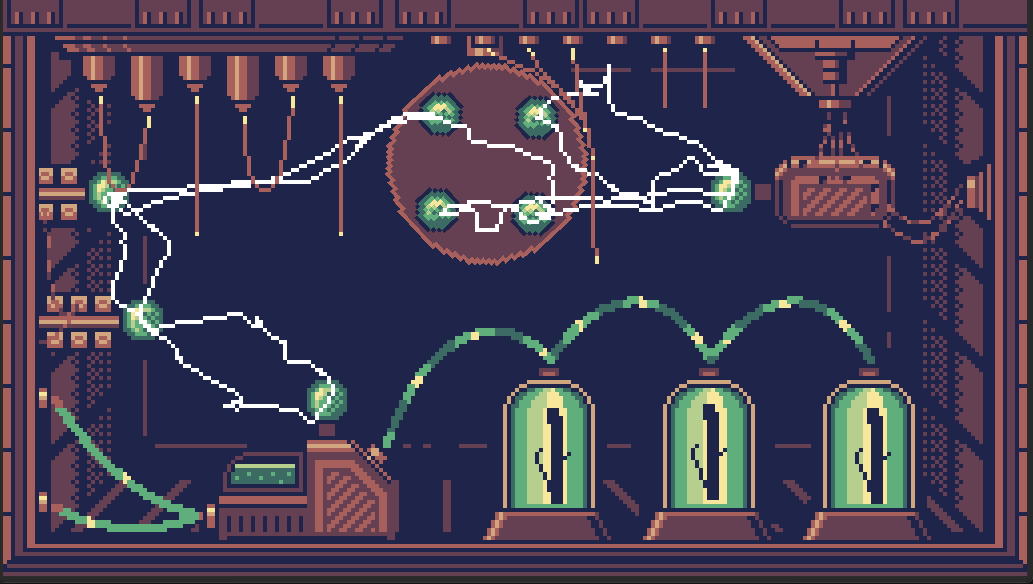
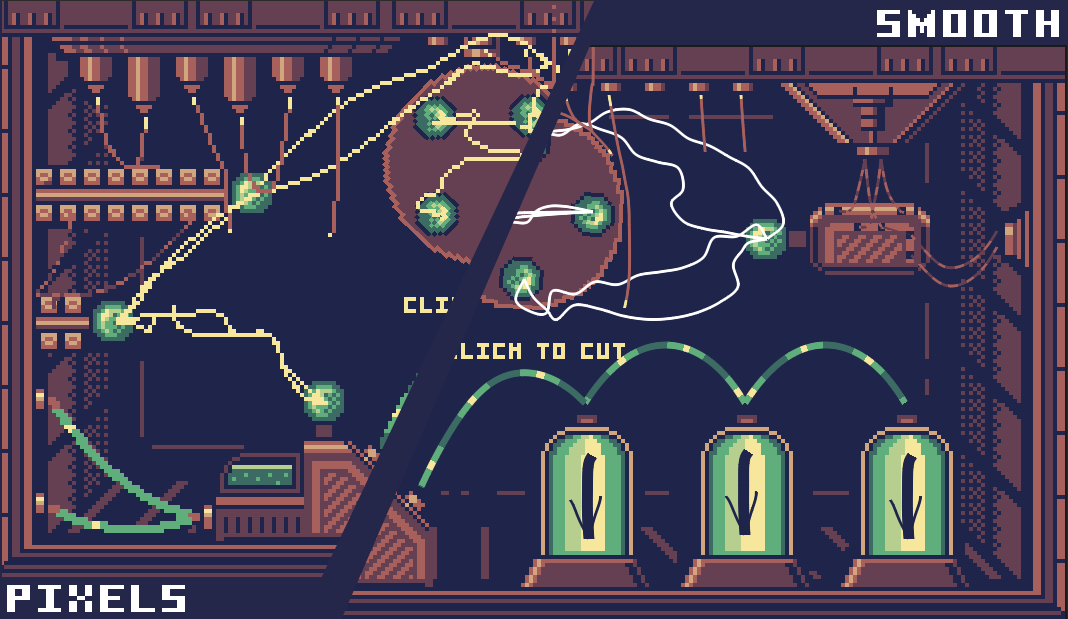
Added smooth ropes.

diff --git a/README.md b/README.md
@@ -8,11 +8,11 @@ The [demo project](https://donitz.itch.io/godot-pixel-rope) is hosted on Itch.io
 
 ## Description
 
-This project contains a pixelated Verlet-driven rope addon for Godot. The ropes were created specifically for pixelated retro graphics, as they are drawn pixel by pixel instead of as connected quads.
+This project contains a pixelated Verlet-driven rope addon for Godot. The ropes were created specifically for pixelated retro graphics, as they are drawn pixel by pixel instead of as connected quads. You can alternatively render the rope as smooth quads.
 
 The addon also includes helper functions and more advanced features such as world collisions, cutting, and pinning control points.
 
-**Note**: The ropes are by default supersampled by two pixels per world-pixel, to compensate for stretching.
+**Note**: The ropes are by default supersampled by two pixels per world-pixel, to compensate for stretching. Reduce `pixels_per_unit` to 1 or less when drawing smooth ropes.
 
 ## Instructions
 